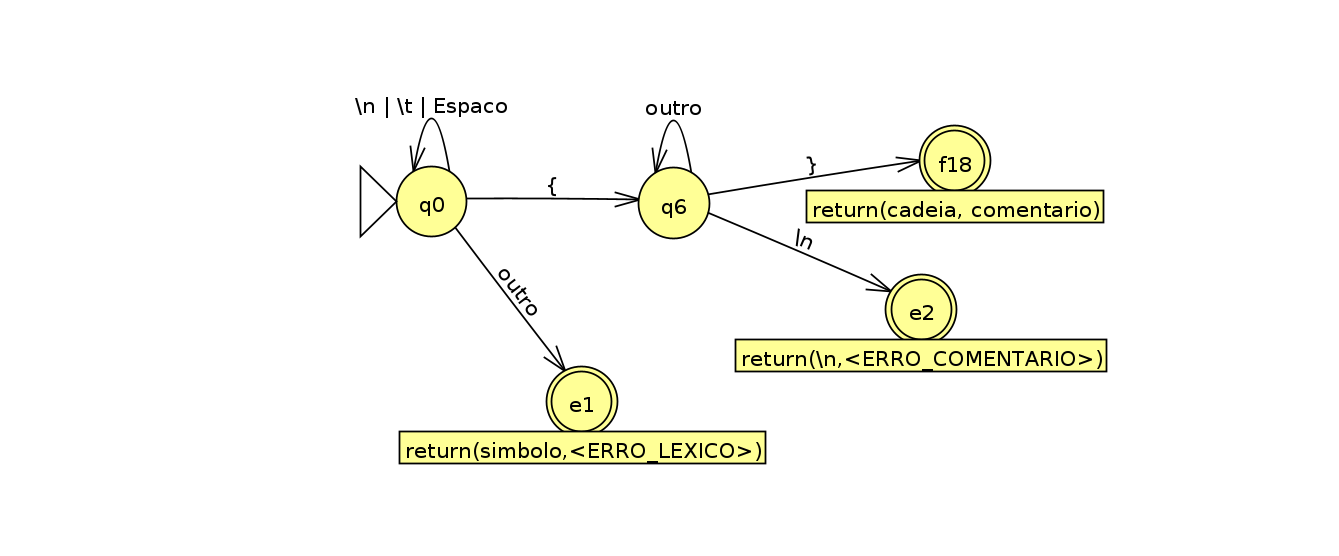
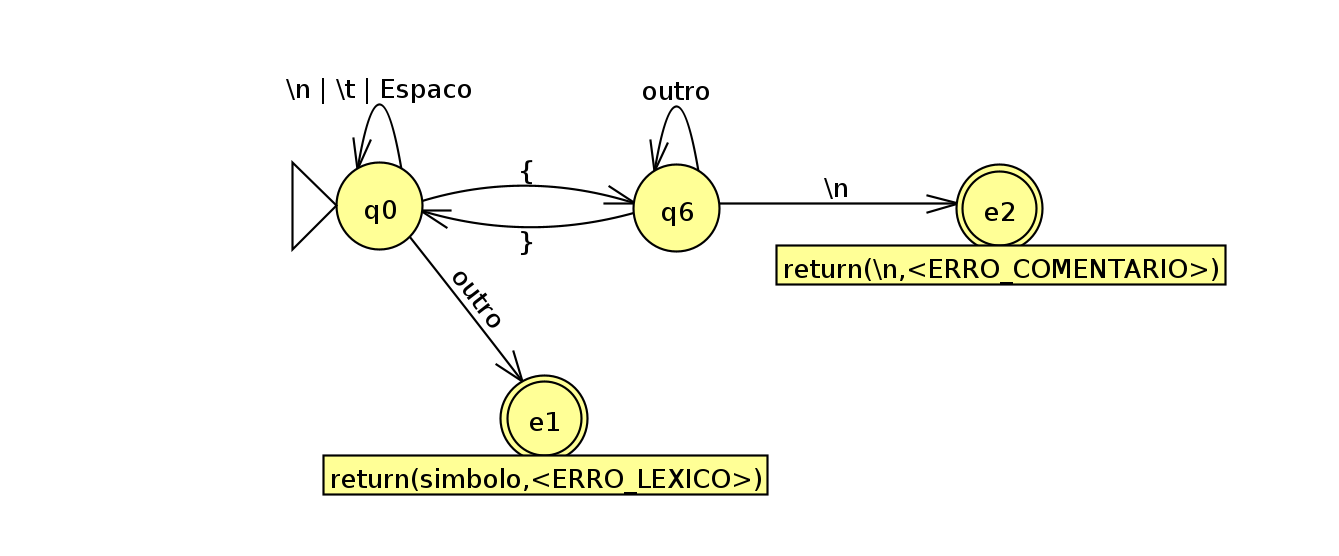
agora ele n le os comentarios

diff --git a/Analisador_lexico/src/lexico.c b/Analisador_lexico/src/lexico.c
@@ -83,11 +83,17 @@ Token* lexico(FILE *file) {
         } 
         
         strcpy(state, find(table, state, tempStr));     // Pega o proximo estado do automato finito
-        
+
         // Se o estado atual for q0, f1, f2, e2, f10, f12 nao adiciona o caractere lido ao buffer
-        if(strcmp(state, "q0") && strcmp(state, "f1") && strcmp(state, "f2") && strcmp(state, "e2") && strcmp(state, "f10") && strcmp(state, "f12"))
+        if(strcmp(state, "f1") && strcmp(state, "f2") && strcmp(state, "e2") && strcmp(state, "f10") && strcmp(state, "f12"))
             strcat(buffer, tempStr);                    // Adiona o caractere lido ao buffer
-    
+
+        // Se o estado atual for q0, zera o contador de caracteres lidos e limpa o buffer
+        if(strcmp(state, "q0") == 0){
+            i = 0;  // Se o estado atual for q0, zera o contador de caracteres lidos
+            for(int j = 0; j <= tamanho_cadeia; j++) buffer[j] = '\0'; // Limpa o buffer
+        }
+
         final_state = (strncmp(state, "f", 1) == 0);    // Verifica se o estado atual é final
         error = (strncmp(state, "e", 1) == 0);          // Verifica se o estado atual é de erro
     }
@@ -96,12 +102,13 @@ Token* lexico(FILE *file) {
         if(strcmp(state, "e1") == 0){
             tk = create_token(buffer, "<ERRO_LEXICO>");
         } else {
-            tk = create_token("\\n", "<ERRO_COMENTARIO>");
+            tk = create_token(buffer, "<ERRO_COMENTARIO_NAO_TERMINADO>");
         }
         free_table(table);    
         free(buffer); 
         return tk;
     }
+
     if(final_state){    // Se o estado atual for final, cria o token correspondente
         if(strcmp(state, "f1") == 0){
             if(is_keyword(buffer)){ // Se for uma palavra reservada o token é "keyword" senão é "id"
@@ -144,8 +151,6 @@ Token* lexico(FILE *file) {
             tk = create_token(buffer, "abre_parenteses");
         }else if(strcmp(state, "f17") == 0){
             tk = create_token(buffer, "fecha_parenteses");
-        }else if(strcmp(state, "f18") == 0){
-            tk = create_token(buffer, "comentario");
         }else if(strcmp(state, "f19") == 0){
             tk = create_token(buffer, "virgula");
         }

diff --git a/Analisador_lexico/src/variaveis.c b/Analisador_lexico/src/variaveis.c
@@ -90,7 +90,7 @@ char *transition_table[][3] = { // estado atual,  simbolo,  proximo estado
     {"q5", "=", "f13"},
 
     // Transições a partir de q6
-    {"q6", "}", "f18"}, {"q6", "\n", "e2"},
+    {"q6", "}", "q0"}, {"q6", "\n", "e2"},
         
     {NULL, NULL, NULL}  
 };

diff --git a/Analisador_lexico/README.md b/Analisador_lexico/README.md
@@ -70,7 +70,7 @@ Baseado-se na gramática, os tokens podem incluir:
 | q3     | f10   | f10    | f10| f10| f10| f10| f10| f8 | f9 | f10| f10| f10| f10| f10| f10| f10| f10| f10| f10| f10    | f10   |
 | q4     | f12   | f12    | f12| f12| f12| f12| f12| f12| f11| f12| f12| f12| f12| f12| f12| f12| f12| f12| f12| f12    | f12   |
 | q5     | e1    | e1     | e1 | e1 | e1 | e1 | e1 | e1 | f13| e1 | e1 | e1 | e1 | e1 | e1 | e1 | e1 | e1 | e1 | e1     | e1    |
-| q6     | q6    | q6     | q6 | q6 | q6 | q6 | q6 | q6 | q6 | q6 | q6 | q6 | q6 | q6 | q6 | q6 | f18| e2 | q6 | q6     | q6    |
+| q6     | q6    | q6     | q6 | q6 | q6 | q6 | q6 | q6 | q6 | q6 | q6 | q6 | q6 | q6 | q6 | q6 | q0 | e2 | q6 | q6     | q6    |
 
 
 ## Rodando e Compilando o programa
